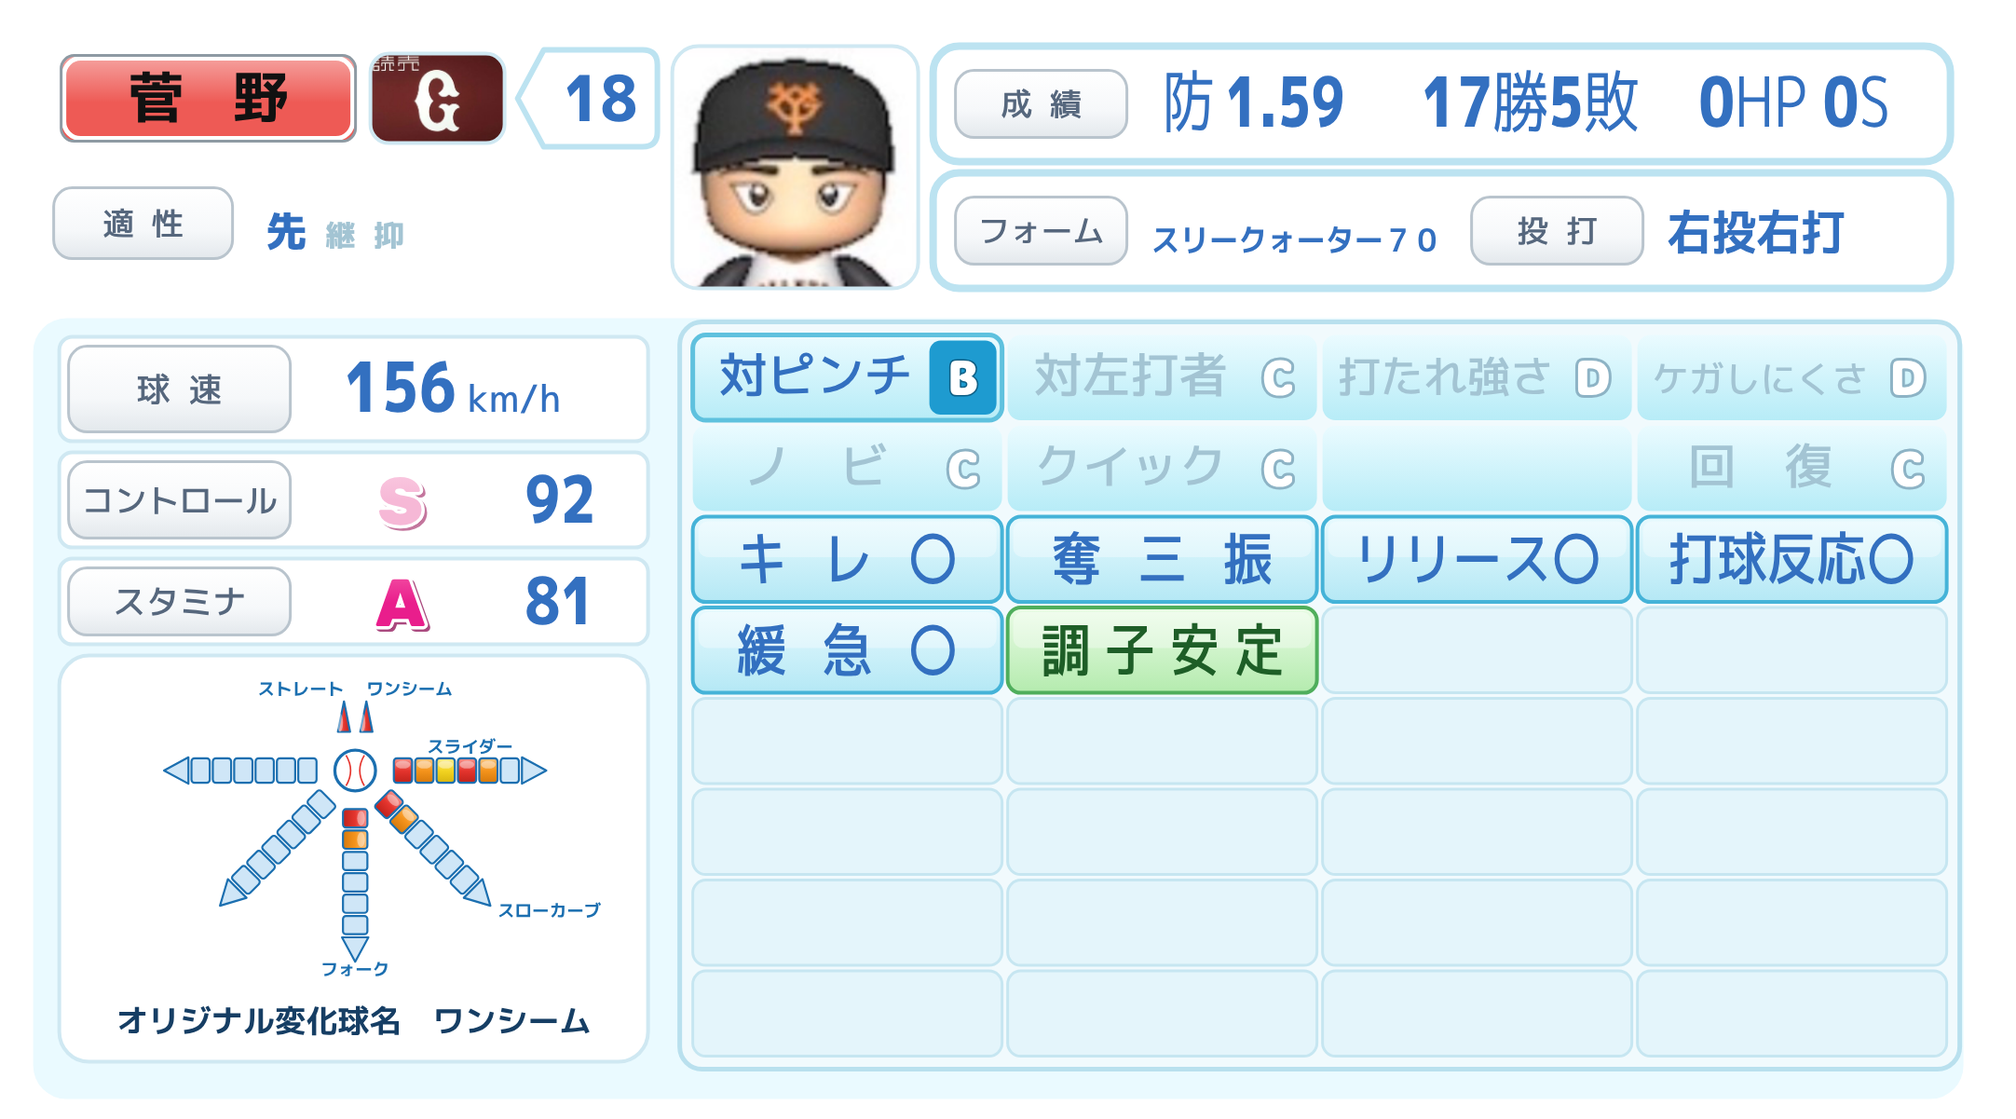
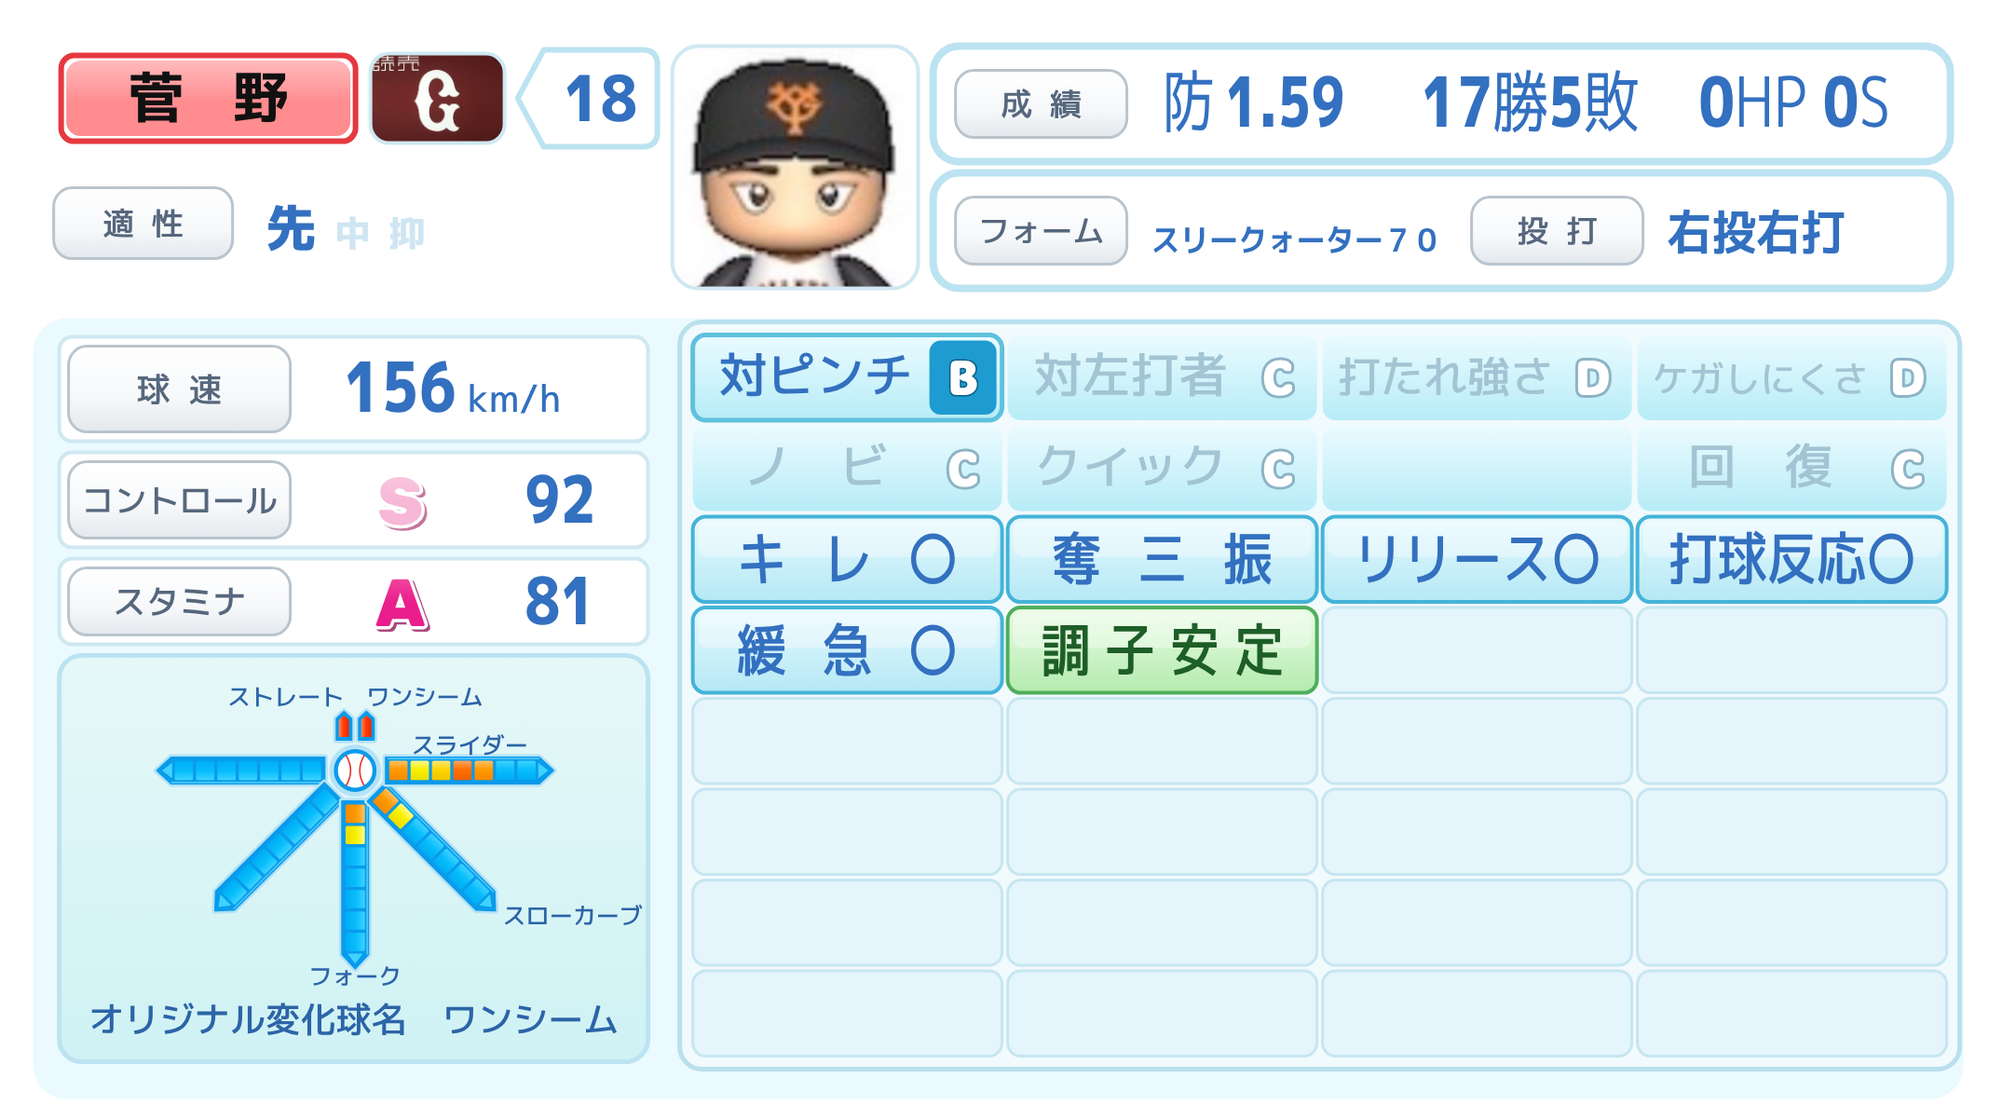
能力画像ジェネレーター（投手）：変化球の欄と適性・名前プレートを実機に合わせる
- 変化球の帯を実機の形に：青い帯の中に四角が7つ並び、先端はとがった形。
  変化量の分だけ中心側から橙・黄・金・濃い橙（それぞれ上が明るいグラデーション）、
  ほかは水色。帯のまわりに薄い影、上側に明るい縁
- ストレートは、短い帯に赤い四角が1つ（先端まで赤）
- 中心のボールの青い輪を太く、まわりに薄い影
- 球種名を大きく、中太の青に。欄の背景を白から薄い水色のグラデーションに
- 適性を実機の表記「先 中 抑」に。×はごく薄く、◎は大きく
- 名前プレート：先発の色を淡い赤にし、濃い赤の縁を付ける
- 使用例の画像を作り直す

Claude-Session: https://claude.ai/code/session_01SKh1jhAp32CEmbZCaaEmgk

Changed region(s): [[0.031, 0.5853, 0.3406, 0.955], [0.031, 0.0308, 0.1858, 0.154], [0.1238, 0.1848, 0.2167, 0.2465]]

diff --git a/nouryoku-pitcher/index.html b/nouryoku-pitcher/index.html
@@ -396,7 +396,7 @@ footer.disclaimer{ margin-top:30px; font-size:0.82rem; color:var(--ink-mute); bo
 </p>
 
 <p>
-<img src="/nouryoku-pitcher/example-sugano.png?v=4" alt="パワプロ風 能力画像ジェネレーター（投手）で作成した能力画像の例" width="2164" height="1201" loading="lazy" style="max-width:100%; height:auto; border:1px solid #c2cad6; border-radius:12px;">
+<img src="/nouryoku-pitcher/example-sugano.png?v=5" alt="パワプロ風 能力画像ジェネレーター（投手）で作成した能力画像の例" width="2164" height="1201" loading="lazy" style="max-width:100%; height:auto; border:1px solid #c2cad6; border-radius:12px;">
 </p>
 
 <h2>よくある質問</h2>
@@ -934,7 +934,7 @@ var L = {
    落とす。野手版と同じ優先順位・配色を流用している。 */
 var NAME_PLATE_COLORS = { yellow: "#FBEA55", water: "#6FD2EC", green: "#7FD06C" };
 var NAME_COLOR_PRIORITY = { water: 0, yellow: 1, green: 2 };
-var ROLE_PLATE_COLOR = { "role-start": "#EE5A55", "role-relief": "#F8BED9" };
+var ROLE_PLATE_COLOR = { "role-start": "#FF8C8F", "role-relief": "#F8BED9" };
 var FALLBACK_PLATE_COLOR = "#CFE1F2";
 /* 先発=赤・中継ぎ=薄いピンクの並び順。通常は赤が先だが、中継ぎか
    抑えのどちらかが先発より高いランク（◎>〇>×）なら、ピンクを先に
@@ -978,10 +978,10 @@ function buildNamePlateColors() {
    〇なら濃い青文字・通常サイズ、◎なら濃い青文字・大きいサイズになる。 */
 var APT_MARKS = [
     { id: "role-start", mark: "先" },
-    { id: "role-relief", mark: "継" },
+    { id: "role-relief", mark: "中" },
     { id: "role-closer", mark: "抑" }
 ];
-var APT_PALE = "#A3C4D3";
+var APT_PALE = "#CFE6F2";
 var APT_DARK = "#3370C0";
 var APT_GAP = 10; /* 先・継・抑の間隔 */
 /* 実機の「適性」欄（白いチップに"適性"、続けて先/中/抑を並べる）を参考に
@@ -996,7 +996,7 @@ function buildAptitudeMarks() {
         var val = document.getElementById("p-" + a.id).value;
         var isMax = val === "◎", isMid = val === "○";
         var color = (isMax || isMid) ? APT_DARK : APT_PALE;
-        var size = isMax ? 22 : 16;
+        var size = isMax ? 27 : 19;
         return { mark: a.mark, color: color, size: size, w: size };
     });
     var markCy = by + bh / 2 + 12;
@@ -1046,7 +1046,7 @@ function buildCatBadges() {
 
 /* 選手名プレートの背景。色を1つなら単色、複数なら左から順に並べ、
    実機と同じく色の境目を縦の波模様にする。上半分には白いつやを重ねる */
-function nameplateStripes(x, y, w, h, colors) {
+function nameplateStripes(x, y, w, h, colors, borderColor) {
     if (!colors.length) colors = [NAME_PLATE_COLORS.yellow];
     var n = colors.length;
     var amp = 5, waves = 1;
@@ -1072,7 +1072,7 @@ function nameplateStripes(x, y, w, h, colors) {
     /* 実機の、白い内側の縁と細い灰色の外側の縁 */
     html +=
         '<rect x="' + (x + 1.5) + '" y="' + (y + 1.5) + '" width="' + (w - 3) + '" height="' + (h - 3) + '" rx="9" fill="none" stroke="#FFFFFF" stroke-width="2.5"/>' +
-        '<rect x="' + x + '" y="' + y + '" width="' + w + '" height="' + h + '" rx="7" fill="none" stroke="#8E9AA3" stroke-width="1.5"/>';
+        '<rect x="' + x + '" y="' + y + '" width="' + w + '" height="' + h + '" rx="7" fill="none" stroke="' + (borderColor || "#8E9AA3") + '" stroke-width="' + (borderColor ? 3 : 1.5) + '"/>';
     return html;
 }
 
@@ -1098,20 +1098,27 @@ function numTab(x, y, w, h) {
    - 第二球種・第二ストレートを持たない場合は、そのバー自体を表示しない
    - 持っていない変化球（値0）はラベル自体を表示しない
    ===================================================================== */
-var PD_LINE_BLUE = "#1B6FB0";
-var PD_EMPTY_FILL = "#CFE6F7";
-var PD_SEG_GRAD_IDS = ["pdGradRed", "pdGradOrange", "pdGradYellow"];
+/* 実機の変化球の欄：青い帯の中に四角が7つ並び、先端はとがった形。
+   変化量の分だけ、中心側から橙・黄・金・濃い橙の四角になる（ほかは水色）。 */
+var PD_LINE_BLUE = "#2C64A8";          /* 球種名の文字 */
+var PD_FRAME = "#0A9BEA";              /* 帯の色 */
+var PD_FRAME_LIGHT = "#5FD3FF";        /* 帯の上側の明るい縁 */
+var PD_HALO = "#B4E2F6";               /* 帯のまわりの薄い影 */
+var PD_FILL_IDS = ["pdGradF0", "pdGradF1", "pdGradF2", "pdGradF3"];
 var PD_GRAD_DEFS = [
-    { id: "pdGradRed", light: "#F79690", base: "#E5352E", dark: "#C0221B" },
-    { id: "pdGradOrange", light: "#FCC583", base: "#F5941C", dark: "#D6790C" },
-    { id: "pdGradYellow", light: "#FCEC93", base: "#F3D422", dark: "#D8B60F" }
+    { id: "pdGradEmpty", light: "#3ED2FF", base: "#08BEFC", dark: "#00ACF6" },
+    { id: "pdGradF0", light: "#FFC266", base: "#FF9A00", dark: "#F58A00" },
+    { id: "pdGradF1", light: "#FFFB8A", base: "#F9F000", dark: "#ECDD00" },
+    { id: "pdGradF2", light: "#FFE77A", base: "#FDD500", dark: "#F2C300" },
+    { id: "pdGradF3", light: "#FFA25E", base: "#FF7000", dark: "#F05F00" },
+    { id: "pdGradStraight", light: "#FF8A5E", base: "#FF3D05", dark: "#E52A00" }
 ];
 
 function pdGradDefsSvg() {
     return PD_GRAD_DEFS.map(function (g) {
         return '<linearGradient id="' + g.id + '" x1="0" y1="0" x2="0" y2="1">' +
             '<stop offset="0%" stop-color="' + g.light + '"/>' +
-            '<stop offset="50%" stop-color="' + g.base + '"/>' +
+            '<stop offset="45%" stop-color="' + g.base + '"/>' +
             '<stop offset="100%" stop-color="' + g.dark + '"/>' +
             '</linearGradient>';
     }).join("");
@@ -1163,98 +1170,90 @@ function pdLabelAnchor(dx, shiftX) {
     return dx > 0 ? "start" : "end";
 }
 
+/* 帯の外形（右向き・原点が帯の根元）。len は四角の並ぶ部分の長さ、tip は先端のとがり */
+function pdBarShape(len, halfW, tip) {
+    return [[0, -halfW], [len, -halfW], [len + tip, 0], [len, halfW], [0, halfW]]
+        .map(function (q) { return q[0].toFixed(1) + "," + q[1].toFixed(1); }).join(" ");
+}
+
 function pdDrawBar(cx, cy, deg, value, label, offsetPerp, thin) {
-    var innerR = 38, segLen = 18, segGap = 3, segW = thin ? 13 : 24;
-    var tipHalfW = thin ? 7 : 13;
+    var innerR = 30, n = 7, sq = 18, gap = 3, pad = 3.5;
+    var halfW = thin ? 8.5 : 13, sqW = thin ? 12 : 19;
+    var tip = thin ? 10 : 14;
+    var len = pad + n * (sq + gap) - gap + pad;
     var rad = deg * Math.PI / 180;
     var dx = Math.cos(rad), dy = Math.sin(rad);
     var px = -dy, py = dx;
     var ocx = cx + px * (offsetPerp || 0), ocy = cy + py * (offsetPerp || 0);
+    var base = pdPolar(ocx, ocy, innerR, deg);
+    var shape = pdBarShape(len, halfW, tip);
 
-    var html = "";
-    for (var i = 0; i < 6; i++) {
-        var r0 = innerR + i * (segLen + segGap);
-        var mid = pdPolar(ocx, ocy, r0 + segLen / 2, deg);
-        var filled = i < value;
-        var color = filled ? "url(#" + PD_SEG_GRAD_IDS[i % PD_SEG_GRAD_IDS.length] + ")" : PD_EMPTY_FILL;
-        var xf = 'transform="translate(' + mid[0].toFixed(1) + ',' + mid[1].toFixed(1) + ') rotate(' + deg + ')"';
-        html += '<g ' + xf + '>' +
-                '<rect x="' + (-segLen / 2) + '" y="' + (-segW / 2) + '" width="' + segLen + '" height="' + segW +
-                '" rx="3" fill="' + color + '" stroke="' + PD_LINE_BLUE + '" stroke-width="2"/>';
-        if (filled) {
-            html += '<ellipse cx="0" cy="' + (-segW * 0.24) + '" rx="' + (segLen * 0.4) + '" ry="' + (segW * 0.16) +
-                    '" fill="#fff" opacity="0.4"/>';
-        }
-        html += '</g>';
+    var html = '<g transform="translate(' + base[0].toFixed(1) + ',' + base[1].toFixed(1) + ') rotate(' + deg + ')">' +
+        '<polygon points="' + shape + '" fill="' + PD_HALO + '" stroke="' + PD_HALO + '" stroke-width="6" stroke-linejoin="round"/>' +
+        '<polygon points="' + shape + '" fill="' + PD_FRAME + '" stroke="' + PD_FRAME + '" stroke-width="1.5" stroke-linejoin="round"/>' +
+        '<line x1="2" y1="' + (-halfW + 1.2) + '" x2="' + len + '" y2="' + (-halfW + 1.2) + '" stroke="' + PD_FRAME_LIGHT + '" stroke-width="1.5" stroke-opacity="0.8"/>';
+    for (var k = 0; k < n; k++) {
+        var x0 = pad + k * (sq + gap);
+        var filled = k < value;
+        html += '<rect x="' + x0 + '" y="' + (-sqW / 2) + '" width="' + sq + '" height="' + sqW + '" rx="1.5" fill="url(#' +
+                (filled ? PD_FILL_IDS[k % PD_FILL_IDS.length] : "pdGradEmpty") + ')"/>';
     }
-    var tipR0 = innerR + 6 * (segLen + segGap);
-    var tip7Filled = value >= 7;
-    var tipColor = tip7Filled ? "url(#" + PD_SEG_GRAD_IDS[6 % PD_SEG_GRAD_IDS.length] + ")" : PD_EMPTY_FILL;
-    var tipBaseP = pdPolar(ocx, ocy, tipR0, deg);
-    var tipLen = 24;
-    var tipXf = 'transform="translate(' + tipBaseP[0].toFixed(1) + ',' + tipBaseP[1].toFixed(1) + ') rotate(' + deg + ')"';
-    html += '<g ' + tipXf + '>' +
-            '<polygon points="0,-' + tipHalfW + ' 0,' + tipHalfW + ' ' + tipLen + ',0" fill="' + tipColor + '" stroke="' + PD_LINE_BLUE + '" stroke-width="2" stroke-linejoin="round"/>';
-    if (tip7Filled) {
-        html += '<ellipse cx="' + (tipLen * 0.3) + '" cy="-3.5" rx="' + (tipLen * 0.3) + '" ry="2.4" fill="#fff" opacity="0.4"/>';
-    }
-    html += '</g>';
+    /* 先端の中の明るい三角 */
+    html += '<polygon points="' + (len - 1) + ',' + (-sqW / 2 + 2) + ' ' + (len + tip - 5) + ',0 ' + (len - 1) + ',' + (sqW / 2 - 2) + '" fill="#3ED2FF"/>' +
+            '</g>';
 
     if (label) {
+        var tipEnd = innerR + len + tip;
         var lp, anchor;
         if (Math.abs(dy) < 0.35) {
             /* シュート・スライダー（真横向き）は、実機同様バーの真上に
-               バーに被らないよう寄せて中央揃えで表示する（バーの延長線上
-               に置くと、その分バーを短くする必要があるため）。第二球種で
+               バーに被らないよう寄せて中央揃えで表示する。第二球種で
                2本並ぶときは、下側にずれたバーの方は下に置き、上のバーと
                ぶつからないようにする。 */
-            var midR = (innerR + tipR0 + tipLen) / 2;
-            var midPt = pdPolar(ocx, ocy, midR, deg);
-            var gap = segW / 2 + 9;
+            var midPt = pdPolar(ocx, ocy, (innerR + tipEnd) / 2, deg);
+            var lgap = halfW + 9;
             lp = (offsetPerp || 0) > 0
-                ? [midPt[0], midPt[1] + gap + 12]
-                : [midPt[0], midPt[1] - gap];
+                ? [midPt[0], midPt[1] + lgap + 14]
+                : [midPt[0], midPt[1] - lgap];
             anchor = "middle";
         } else {
-            /* それ以外（上下・斜め方向）は、バー自身の延長線上（＝バーが
-               第二球種でずれていればそのずれた軸のまま）、先端のすぐ外側
-               に寄せる。実機同様、バーに被らない最小限の余白だけを空ける
-               ことで、バー自体を大きく見せる。 */
-            lp = pdPolar(ocx, ocy, tipR0 + tipLen + 10, deg);
+            /* それ以外（上下・斜め方向）は、バー自身の延長線上、先端のすぐ外側に寄せる */
+            lp = pdPolar(ocx, ocy, tipEnd + 10, deg);
             anchor = pdLabelAnchor(dx, px * (offsetPerp || 0));
         }
-        html += '<text x="' + lp[0].toFixed(1) + '" y="' + (lp[1] + 4).toFixed(1) + '" text-anchor="' + anchor +
-                '" font-size="17" font-weight="700" fill="' + PD_LINE_BLUE +
+        html += '<text x="' + lp[0].toFixed(1) + '" y="' + (lp[1] + 6).toFixed(1) + '" text-anchor="' + anchor +
+                '" font-size="23" font-weight="500" fill="' + PD_LINE_BLUE +
                 '" font-family="&quot;M PLUS 1p&quot;,&quot;Hiragino Kaku Gothic ProN&quot;,sans-serif">' + esc(label) + '</text>';
     }
     return html;
 }
 
 function pdDrawStraightMark(cx, cy, deg, label, offsetPerp, thin) {
-    var baseR = 38, tipR = 38 + 30;
-    var tipHalfW = thin ? 6 : 9;
+    var innerR = 30, sq = 15, pad = 3;
+    var halfW = thin ? 7.5 : 10, sqW = thin ? 10 : 14;
+    var tip = thin ? 7 : 9;
+    var len = pad + sq + pad;
     var rad = deg * Math.PI / 180;
     var dx = Math.cos(rad), dy = Math.sin(rad);
     var px = -dy, py = dx;
     var ocx = cx + px * (offsetPerp || 0), ocy = cy + py * (offsetPerp || 0);
-
-    var tipLen = tipR - baseR;
-    var tBaseP = pdPolar(ocx, ocy, baseR, deg);
-    var xf = 'transform="translate(' + tBaseP[0].toFixed(1) + ',' + tBaseP[1].toFixed(1) + ') rotate(' + deg + ')"';
-    var html = '<g ' + xf + '>' +
-            '<polygon points="0,-' + tipHalfW + ' 0,' + tipHalfW + ' ' + tipLen + ',0" fill="url(#' + PD_SEG_GRAD_IDS[0] + ')" stroke="' + PD_LINE_BLUE + '" stroke-width="2" stroke-linejoin="round"/>' +
-            '<ellipse cx="' + (tipLen * 0.3) + '" cy="-4" rx="' + (tipLen * 0.3) + '" ry="3" fill="#fff" opacity="0.4"/>' +
-            '</g>';
+    var base = pdPolar(ocx, ocy, innerR, deg);
+    var shape = pdBarShape(len, halfW, tip);
+    var html = '<g transform="translate(' + base[0].toFixed(1) + ',' + base[1].toFixed(1) + ') rotate(' + deg + ')">' +
+        '<polygon points="' + shape + '" fill="' + PD_HALO + '" stroke="' + PD_HALO + '" stroke-width="6" stroke-linejoin="round"/>' +
+        '<polygon points="' + shape + '" fill="' + PD_FRAME + '" stroke="' + PD_FRAME + '" stroke-width="1.5" stroke-linejoin="round"/>' +
+        /* ストレートは、実機と同じく赤い四角が1つ（とがった先まで赤） */
+        '<polygon points="' + pad + ',' + (-sqW / 2) + ' ' + (len - 1) + ',' + (-sqW / 2) + ' ' + (len + tip - 4) + ',0 ' + (len - 1) + ',' + (sqW / 2) + ' ' + pad + ',' + (sqW / 2) + '" fill="url(#pdGradStraight)"/>' +
+        '</g>';
 
     if (label) {
-        /* ストレート系・第二ストレートは、実機同様バーが無く三角のみ。
-           第二ストレートがある場合はストレートが左・第二ストレートが右に
+        /* 第二ストレートがある場合はストレートが左・第二ストレートが右に
            なるよう、offsetPerpで既にずれたその軸のまま、先端のすぐ外側に
            ラベルを置く。 */
-        var lp = pdPolar(ocx, ocy, tipR + 10, deg);
+        var lp = pdPolar(ocx, ocy, innerR + len + tip + 10, deg);
         var anchor = pdLabelAnchor(dx, px * (offsetPerp || 0));
         html += '<text x="' + lp[0].toFixed(1) + '" y="' + (lp[1] + 4).toFixed(1) + '" text-anchor="' + anchor +
-                '" font-size="17" font-weight="700" fill="' + PD_LINE_BLUE +
+                '" font-size="23" font-weight="500" fill="' + PD_LINE_BLUE +
                 '" font-family="&quot;M PLUS 1p&quot;,&quot;Hiragino Kaku Gothic ProN&quot;,sans-serif">' + esc(label) + '</text>';
     }
     return html;
@@ -1340,7 +1339,8 @@ function buildPitchDiagram(x, y, w, h) {
         }
     });
 
-    svg += '<circle cx="' + cx + '" cy="' + cy + '" r="20" fill="#fff" stroke="' + PD_LINE_BLUE + '" stroke-width="3"/>';
+    svg += '<circle cx="' + cx + '" cy="' + cy + '" r="21" fill="none" stroke="' + PD_HALO + '" stroke-width="9"/>';
+    svg += '<circle cx="' + cx + '" cy="' + cy + '" r="19" fill="#fff" stroke="' + PD_FRAME + '" stroke-width="4"/>';
     svg += '<path d="M ' + (cx - 9) + ' ' + (cy - 15) + ' Q ' + cx + ' ' + cy + ' ' + (cx - 9) + ' ' + (cy + 15) + '" stroke="#E5352E" stroke-width="1.5" fill="none"/>';
     svg += '<path d="M ' + (cx + 9) + ' ' + (cy - 15) + ' Q ' + cx + ' ' + cy + ' ' + (cx + 9) + ' ' + (cy + 15) + '" stroke="#E5352E" stroke-width="1.5" fill="none"/>';
 
@@ -1362,6 +1362,7 @@ function renderCard() {
     var throwbat = document.getElementById("p-throwbat").value;
     var form = document.getElementById("p-form").value;
     var number = (document.getElementById("p-number") || { value: "" }).value.trim();
+    var plateColors = buildNamePlateColors();
 
     /* 特殊能力バッジ（4列固定）。野手版と同じロジック。 */
     var cols = 4, catMinRows = 6;
@@ -1491,7 +1492,7 @@ function renderCard() {
         var contentBottom = pitchDiagramContentBottom(diagramY, diagramW, diagramH);
         var origAreaTop = contentBottom, origAreaBottom = diagramY + diagramH - 10;
         var origY = (origAreaTop + origAreaBottom) / 2 + 7;
-        origHTML = '<text data-fit="' + (diagramW - 24) + '" x="' + (diagramX + diagramW / 2) + '" y="' + origY + '" text-anchor="middle" font-size="17" font-weight="700" fill="#163E64" font-family="&quot;M PLUS 1p&quot;,&quot;Hiragino Kaku Gothic ProN&quot;,sans-serif">オリジナル変化球名　' + esc(origName) + '</text>';
+        origHTML = '<text data-fit="' + (diagramW - 24) + '" x="' + (diagramX + diagramW / 2) + '" y="' + origY + '" text-anchor="middle" font-size="19" font-weight="500" fill="#2C64A8" font-family="&quot;M PLUS 1p&quot;,&quot;Hiragino Kaku Gothic ProN&quot;,sans-serif">オリジナル変化球名　' + esc(origName) + '</text>';
     }
 
     var bio1 = L.bio1Vals.map(function (b) {
@@ -1506,7 +1507,9 @@ function renderCard() {
 
         '<rect x="' + L.bodyPanel.x + '" y="' + L.bodyPanel.y + '" width="' + L.bodyPanel.w + '" height="' + (H - L.bodyPanel.y - 10) + '" rx="18" fill="#EAFAFF"/>' +
 
-        nameplateStripes(L.namePlate.x, L.namePlate.y, L.namePlate.w, L.namePlate.h, buildNamePlateColors()) +
+        nameplateStripes(L.namePlate.x, L.namePlate.y, L.namePlate.w, L.namePlate.h, plateColors,
+            /* 実機の投手は、先発の赤いプレートに濃い赤の縁が付く */
+            plateColors[0] === ROLE_PLATE_COLOR["role-start"] ? "#E5383F" : null) +
         '<text ' + nameFitAttr(name, L.namePlate.w - 20) + ' x="' + (L.namePlate.x + L.namePlate.w / 2) + '" y="' + (L.namePlate.y + L.namePlate.h / 2 + 10) + '" text-anchor="middle" font-size="30" font-weight="700" fill="#111" font-family="&quot;M PLUS 1p&quot;,&quot;Hiragino Kaku Gothic ProN&quot;,sans-serif">' + esc(name) + '</text>' +
 
         (teamFlagImg
@@ -1541,7 +1544,8 @@ function renderCard() {
         /* 特殊能力バッジ（実機と同じく、欄全体を薄い水色の面と枠線で囲む） */
         '<rect x="' + (L.gridColX[0] - 7) + '" y="' + (L.gridRowY0 - 7) + '" width="' + (L.gridColX[3] + L.gridColW - L.gridColX[0] + 14) + '" height="' + (rows * L.gridRowH + 11) + '" rx="12" fill="#F1FAFD" stroke="#B9E0EE" stroke-width="2.5"/>' +
         badgeHTML +
-        '<rect x="' + diagramX + '" y="' + diagramY + '" width="' + diagramW + '" height="' + diagramH + '" rx="16" fill="#ffffff" stroke="#CFE8F2" stroke-width="2"/>' +
+        '<defs><linearGradient id="gDiagram" x1="0" y1="0" x2="0" y2="1"><stop offset="0" stop-color="#E6F8F8"/><stop offset="1" stop-color="#CFF2F4"/></linearGradient></defs>' +
+        '<rect x="' + diagramX + '" y="' + diagramY + '" width="' + diagramW + '" height="' + diagramH + '" rx="12" fill="url(#gDiagram)" stroke="#BCE3F1" stroke-width="2.5"/>' +
         buildPitchDiagram(diagramX, diagramY, diagramW, diagramH) +
         origHTML +
 
